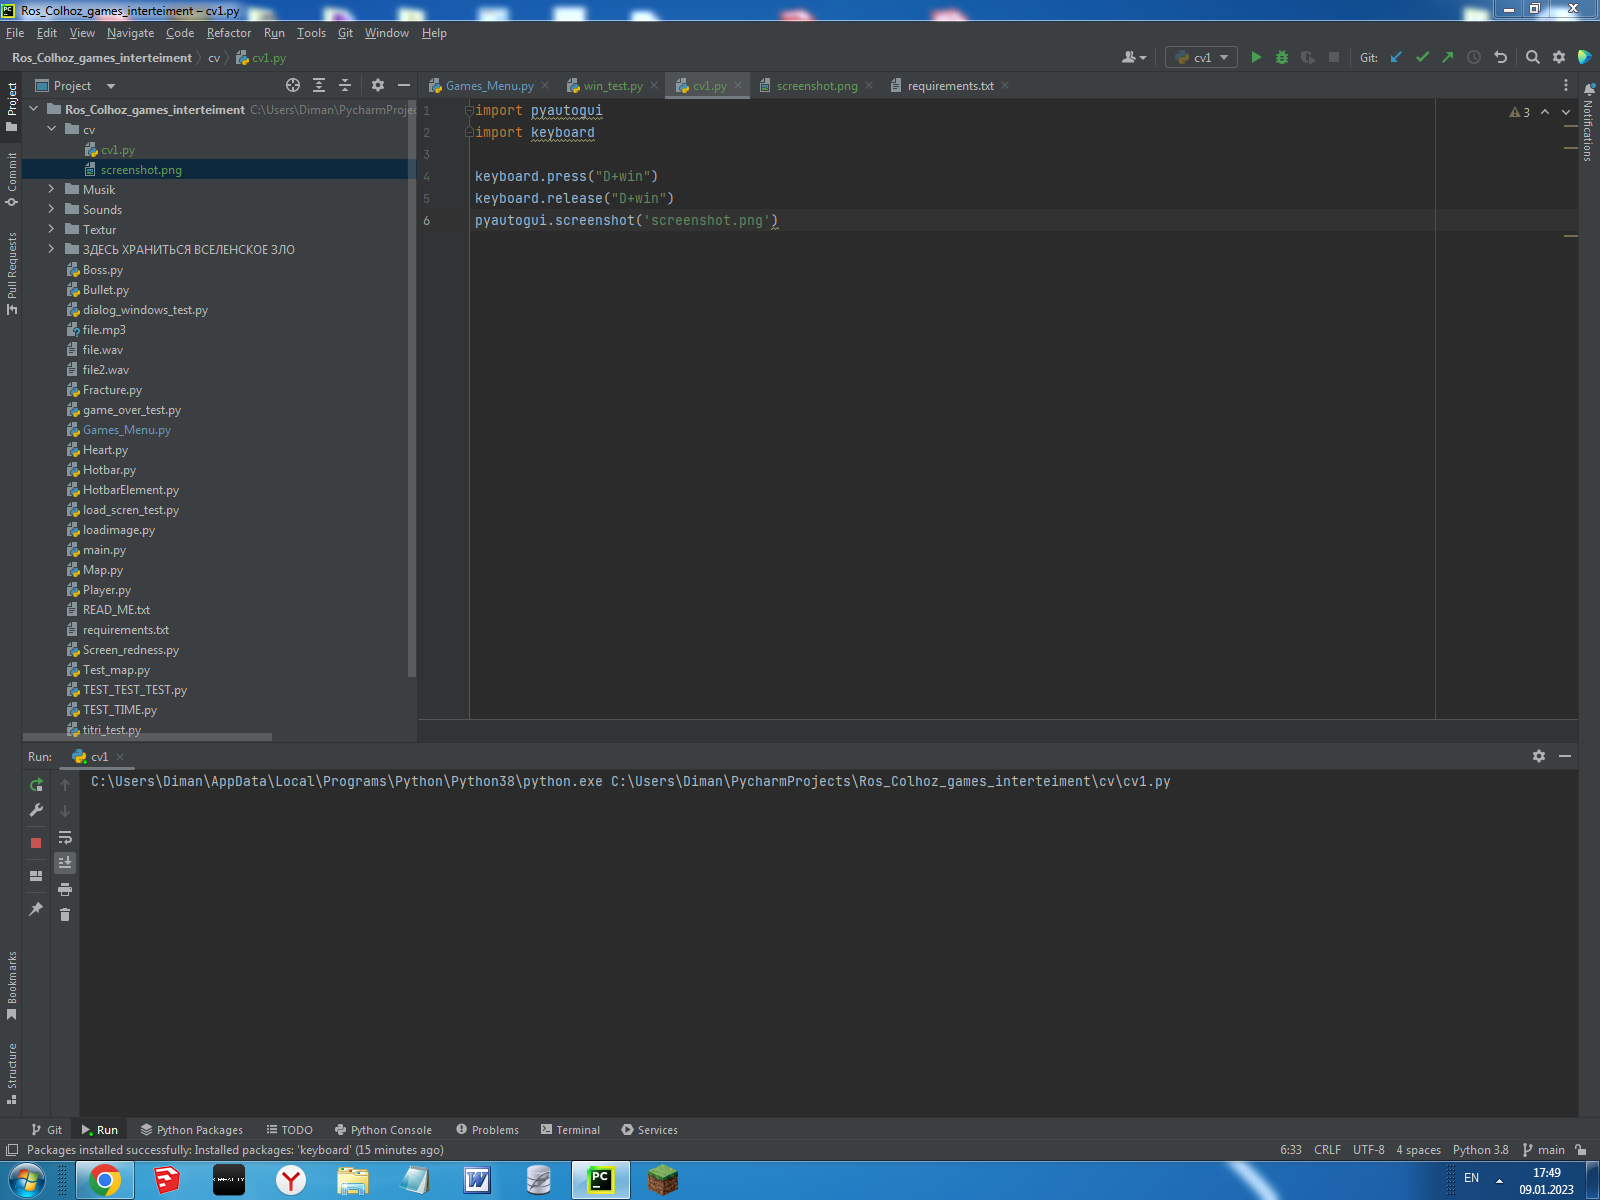
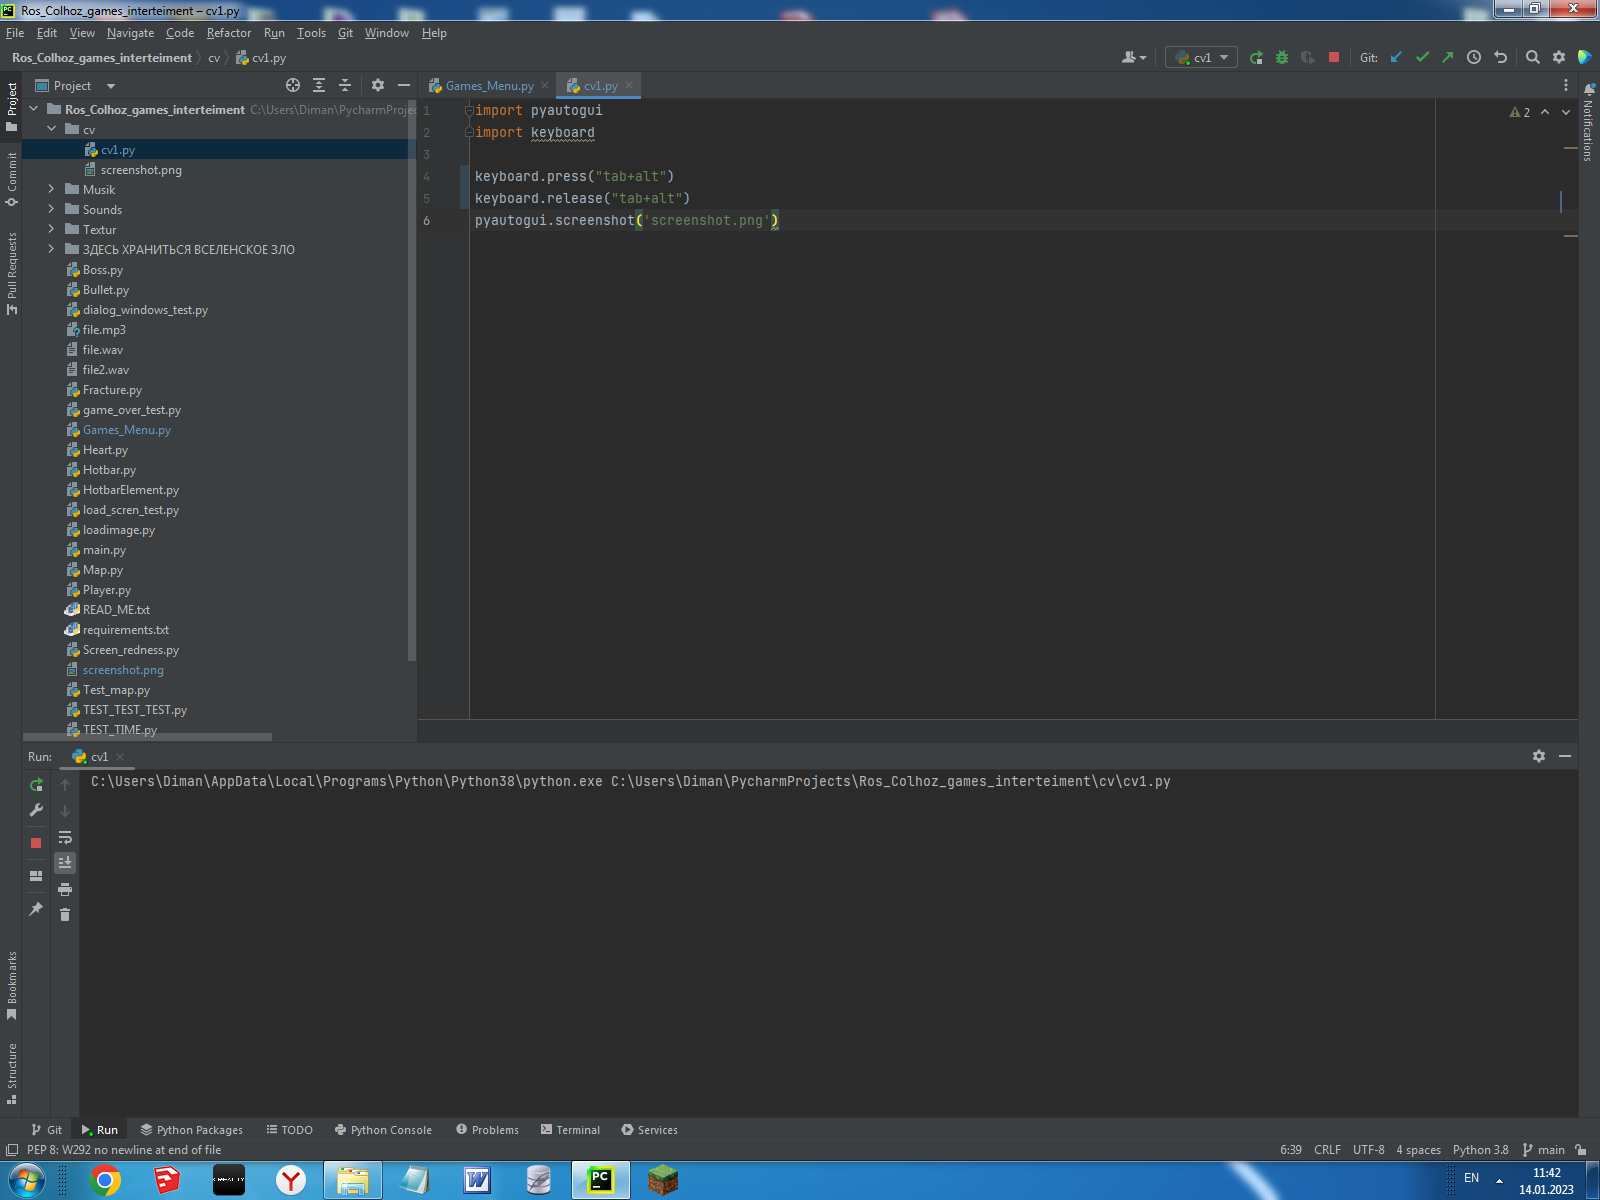
update 0.4.0.5.3

diff --git a/Games_Menu.py b/Games_Menu.py
@@ -346,6 +346,30 @@ def get_final(pos):
     return False
 
 
+def add_score(name, score):
+    f = open('text.txt', 'w')
+    f.write(name + "///" + str(score) + '\n')
+    f.close()
+
+
+def get_any_score():
+    f = open('text.txt', 'r')
+    score = {
+
+    }
+    for index in f.read().split("\n"):
+        score[index.split("///")[0]] = index.split("///")[1]
+    f.close()
+    return score
+
+
+def get_name_score(name):
+    try:
+        return get_any_score()[name]
+    except IndexError:
+        return "ERROR1"
+
+
 if __name__ == '__main__':
     pygame.init()
     print(matplotlib.get_data_path())
@@ -464,7 +488,6 @@ if __name__ == '__main__':
     SIZE = WIDTH, HEIGHT = 1250, 800
     CELL_SIZE = 50
     FPS = 60
-    screen = pygame.display.set_mode(SIZE)
 
     all_sprites = pygame.sprite.Group()
     map = pygame.sprite.Group()

diff --git a/ile_system_test.py b/ile_system_test.py
@@ -1,0 +1,7 @@
+f = open('text.txt', 'w')
+l = [1, 2, 3, 4, 5]
+for index in l:
+    f.write("Витя кислый" + "///" + str(index) + '\n')
+f.close()
+f2 = open('text.txt', 'r')
+print(f2.read().split("\n"))

diff --git a/cv/cv1.py b/cv/cv1.py
@@ -1,6 +1,6 @@
 import pyautogui
 import keyboard
 
-keyboard.press("D+win")
-keyboard.release("D+win")
+keyboard.press("tab+alt")
+keyboard.release("tab+alt")
 pyautogui.screenshot('screenshot.png')
